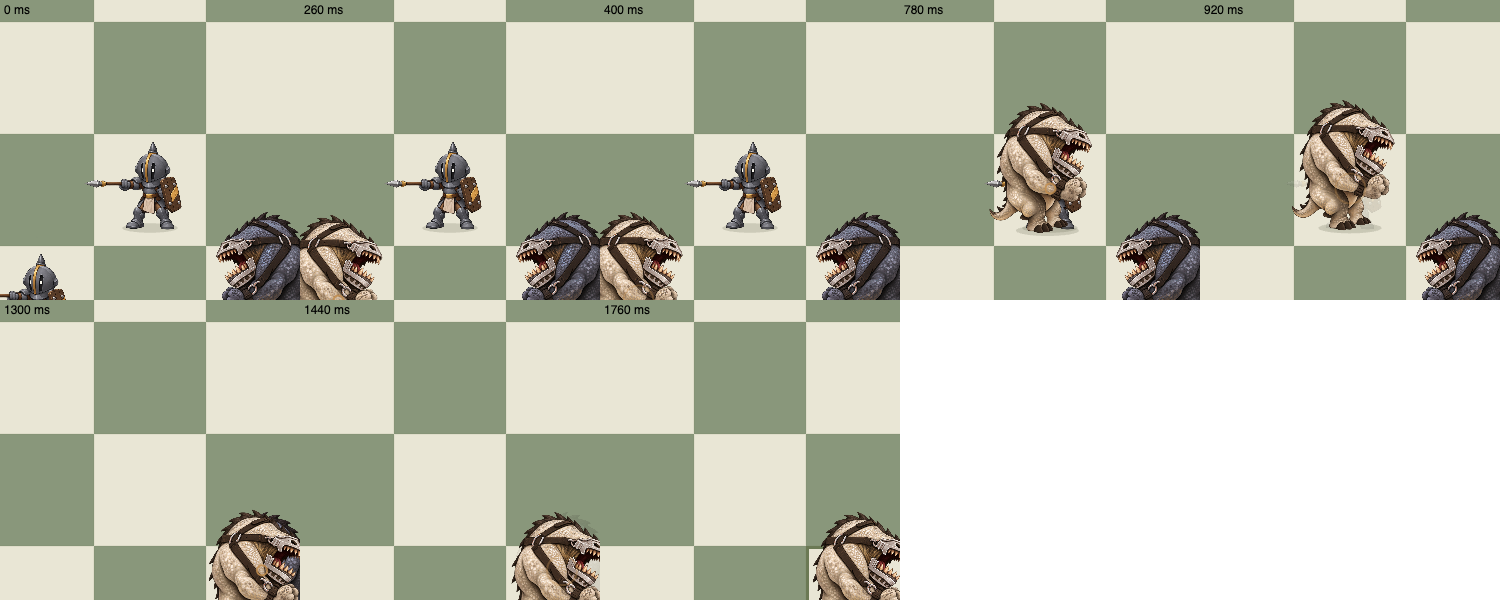
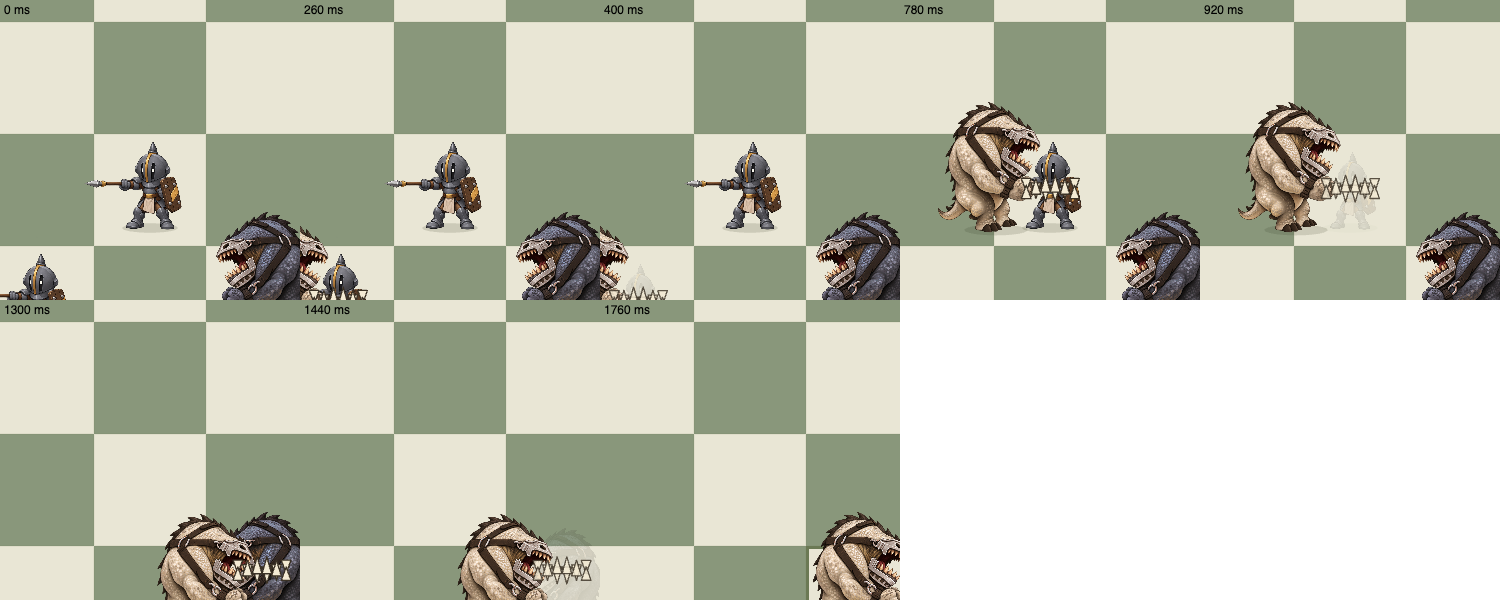
Add Rook slam, Queen knock-over, King frost-shatter and Beast chomp captures

diff --git a/docs/2d-first-pieces/board/README.md b/docs/2d-first-pieces/board/README.md
@@ -141,3 +141,16 @@ The cast is now twelve per army. The King is the Frost King, the game's default 
 - **Painted cast:** now includes both Kings (d1, e8) and Beasts (g2, b7).
 
 Motion is a rigid lean (same as the Maester). The Frost King's skin stays pale blue in both armies; his ice armour carries the army colour. Verified by `capture-strikes.mjs` (King capture, 3-bite chain, counts and messages) and the [24-figure cast](strikes/cast-24.png).
+
+## More capture animations — 2026-09-26
+
+Every capturing piece now has its own capture. New in this pass (`blows.mjs`: shared timeline; effects in `prototype.mjs`):
+
+- **Rook, tower slam:** stops beside the victim, rocks back, then topples forward so the tower lands on the victim. Board shake, squash, ground ring, cracks and dust (same effects as the Paladin).
+- **Queen, command:** a small commanding lean; the victim is knocked over away from her and fades, with a ring at the point of command.
+- **King, frost:** the victim ices over pale blue, then shatters into nine wedges that fly apart and fall.
+- **Beast, chomp:** stops beside each victim in the chain; two rows of bone teeth snap shut on the victim before it fades, then the next bite. After the last bite he steps onto that square.
+
+Attackers now stand beside the victim, never on top of it, so straight-file captures stay readable. Checked by `capture-strikes.mjs` (Rook, Queen, King and Beast frame sheets in [strikes/](strikes/)) and `blows.test.mjs`.
+
+The Maester still uses the generic lean-and-fade. Guard never captures.

diff --git a/TASKS.md b/TASKS.md
@@ -1,5 +1,9 @@
 # Tasks
 
+## Capture animations for every capturing piece — 2026-09-26
+- [x] Rook tower slam, Queen knock-over, King freeze-and-shatter, Beast teeth chomp, with attackers stopping beside the victim. `capture-strikes.mjs` 10/10; node and vitest pass. [Details](docs/2d-first-pieces/board/README.md#more-capture-animations--2026-09-26).
+- Open: Maester capture (options proposed to owner: goggle beam, gear-pack clamp, wrench swing needing new art).
+
 ## Painted King and Beast — 2026-09-26
 - [x] Frost King and Beast painted in ivory/charcoal (Codex built-in image generation, run only for the two images), registered on the board, added to the cast, with King guard and Beast chain positions. Beast chains are selectable per chain and animate bite by bite. One Beast image rejected and regenerated. Checks: `capture-strikes.mjs` 8/8, node tests, 24-figure cast screenshot. [Details](docs/2d-first-pieces/board/README.md#king-and-beast--2026-09-26). Owner review pending.
 
